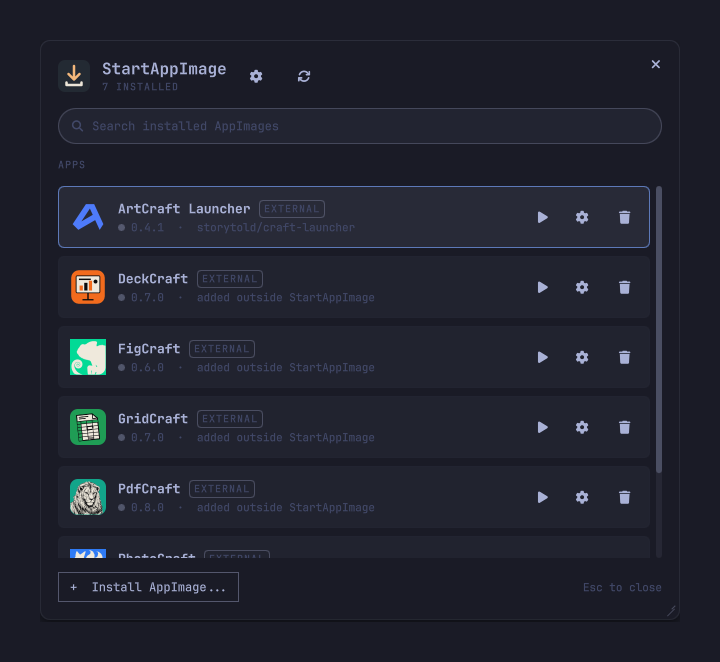
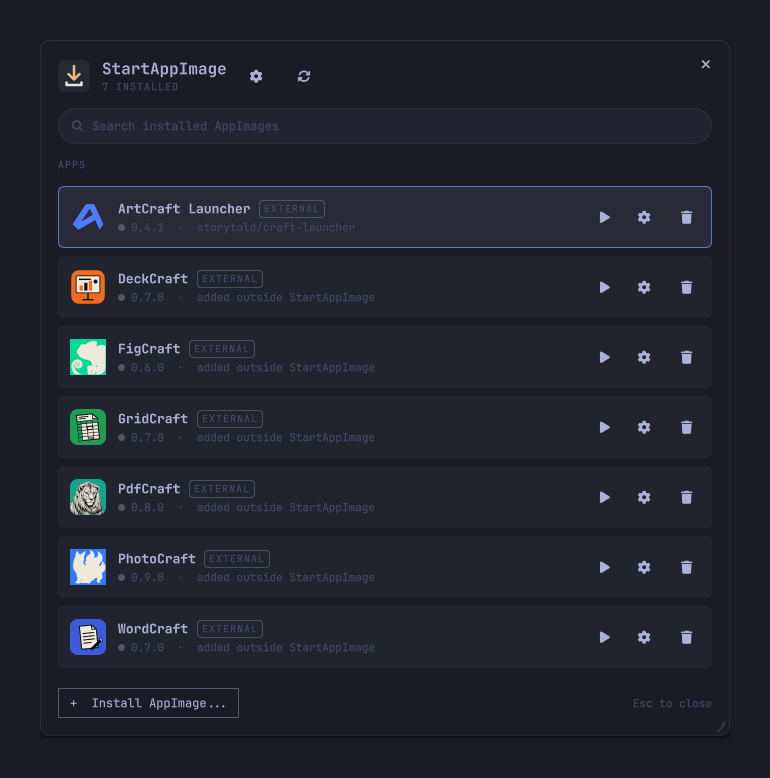
Retake the hero, add preview.png and the scripts that build the images

diff --git a/docs/ui-standards.md b/docs/ui-standards.md
@@ -148,7 +148,7 @@ A change is not done until it has been seen working.
 3. Open the window (`omarchy-shell io.github.bmaltais.startappimage open` or `setup`; both toggle or show) and take a screenshot with `grim`.
 4. Click the real controls with `ydotool` and screenshot again. On a monitor that does not start at x = 0, `ydotool mousemove --absolute` lands at twice the coordinate you give plus the monitor's origin, so check with `hyprctl cursorpos`. Screenshot before each click: a click outside a card closes it.
 5. Read the shell log for QML errors: `journalctl --user --since -1min -o cat`.
-6. Retake the README screenshots with `scripts/screenshots.sh` when the look changes.
+6. Retake the README screenshots with `scripts/screenshots.sh` when the look changes, then rebuild `preview.png` (the 1600 by 900 title image) with `scripts/preview.sh`. Both put a plain backdrop behind the cards. Set the manager to about 690 by 696 first (`startappimage window --size 690x696 --offset 0,0`, then restart the shell) so the hero shows every app without a cut-off row, and restore your own window values afterwards.
 
 ## Shared UI code
 

diff --git a/CONTRIBUTING.md b/CONTRIBUTING.md
@@ -15,7 +15,7 @@
 | `Chip.qml`, `Field.qml` | A selectable choice and a text field |
 | `bin/startappimage` | The command line: install, list, update, remove, settings. It is the only part that touches files |
 | `assets/` | The launcher icon |
-| `screenshots/` | Images used by the README; retake them with `scripts/screenshots.sh` |
+| `screenshots/`, `preview.png` | Images used by the README and the plugin preview; retake them with `scripts/screenshots.sh`, then `scripts/preview.sh` |
 | `docs/ui-standards.md` | How the UI looks and behaves, and why. Read it before changing the UI, and update it when a design decision changes |
 
 The QML never edits files itself: it asks `bin/startappimage` and reads its JSON (`list --json`, `info`, `config`, `locations`, `integration`, `check --json`).
